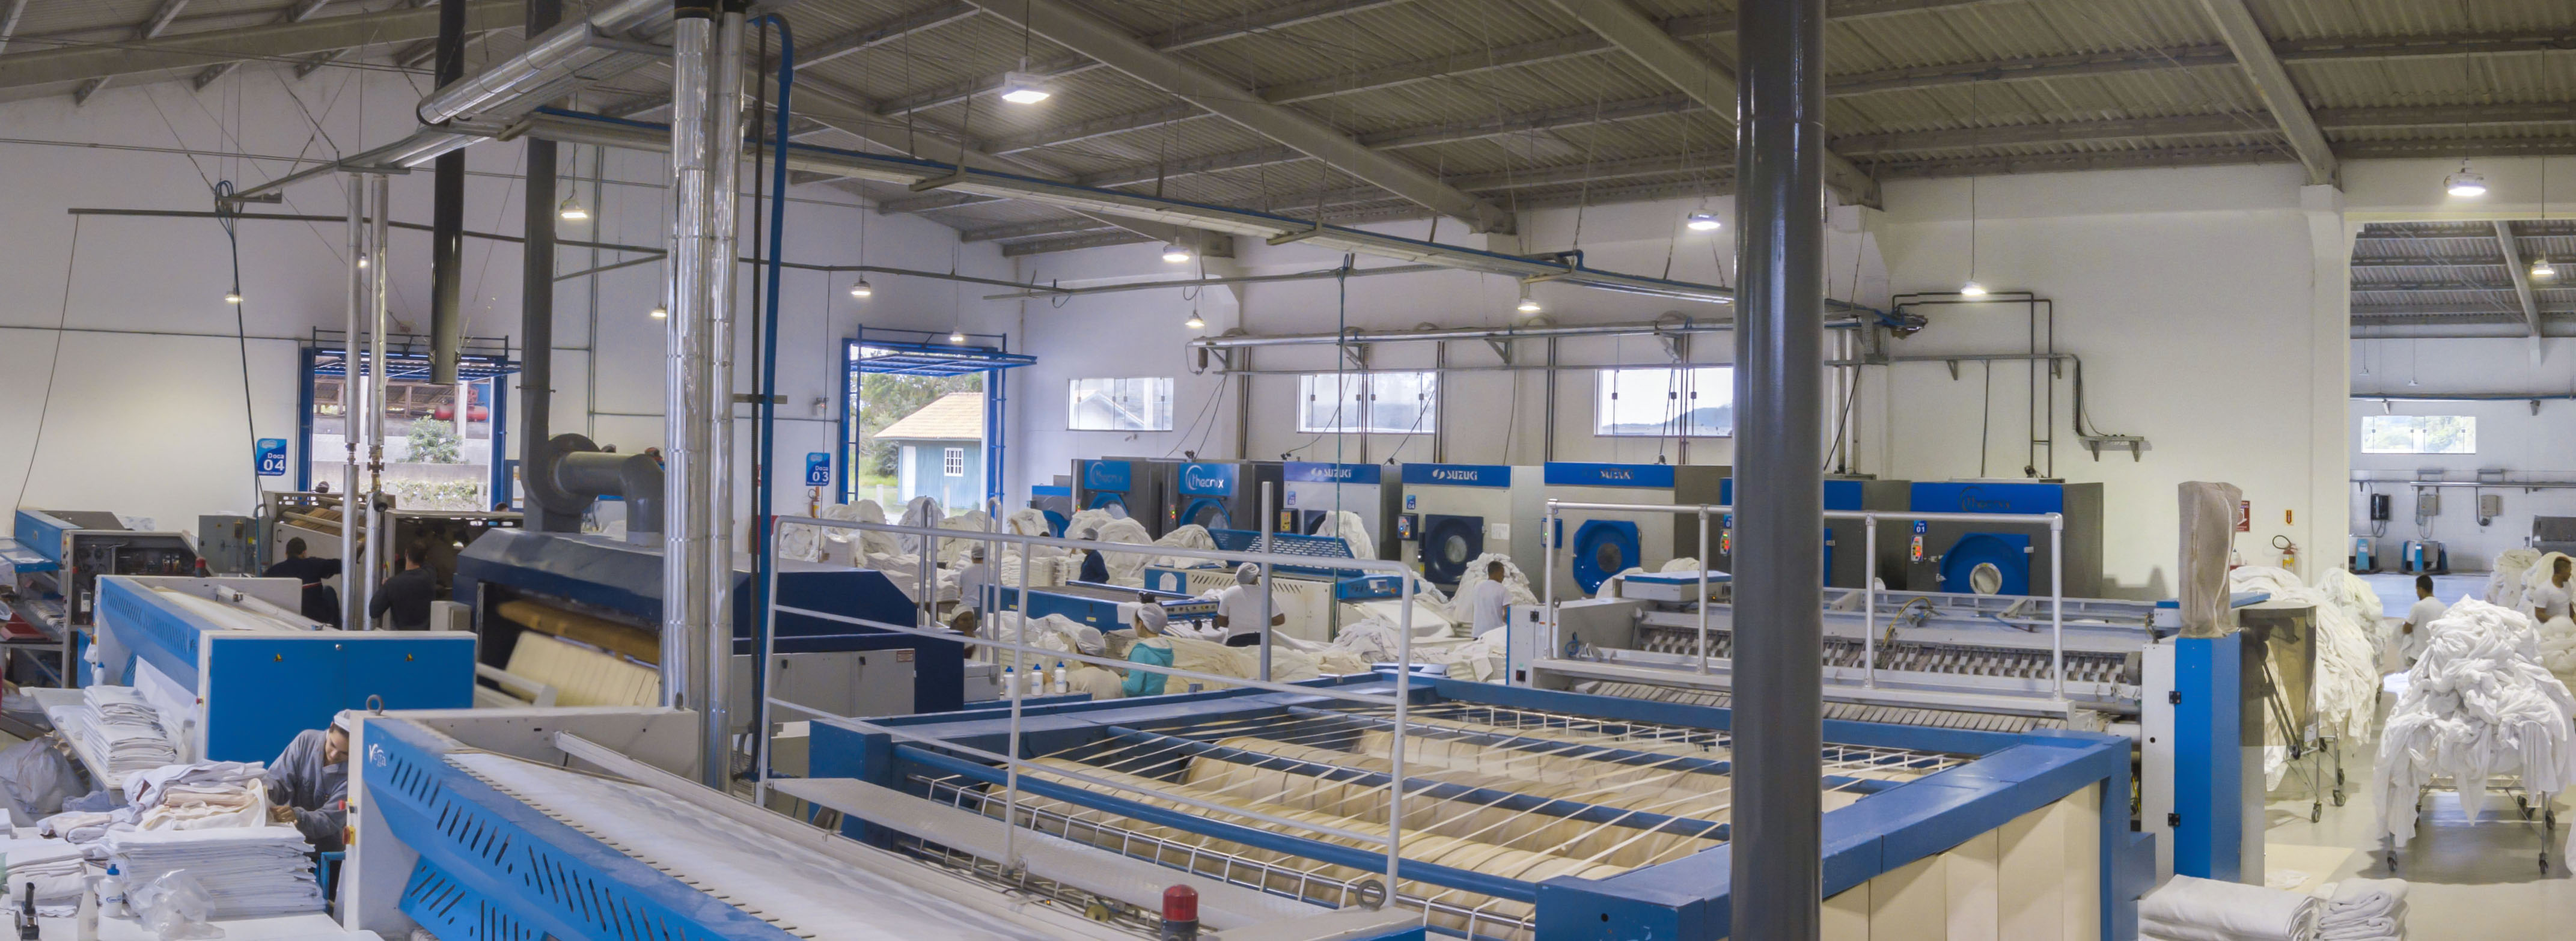
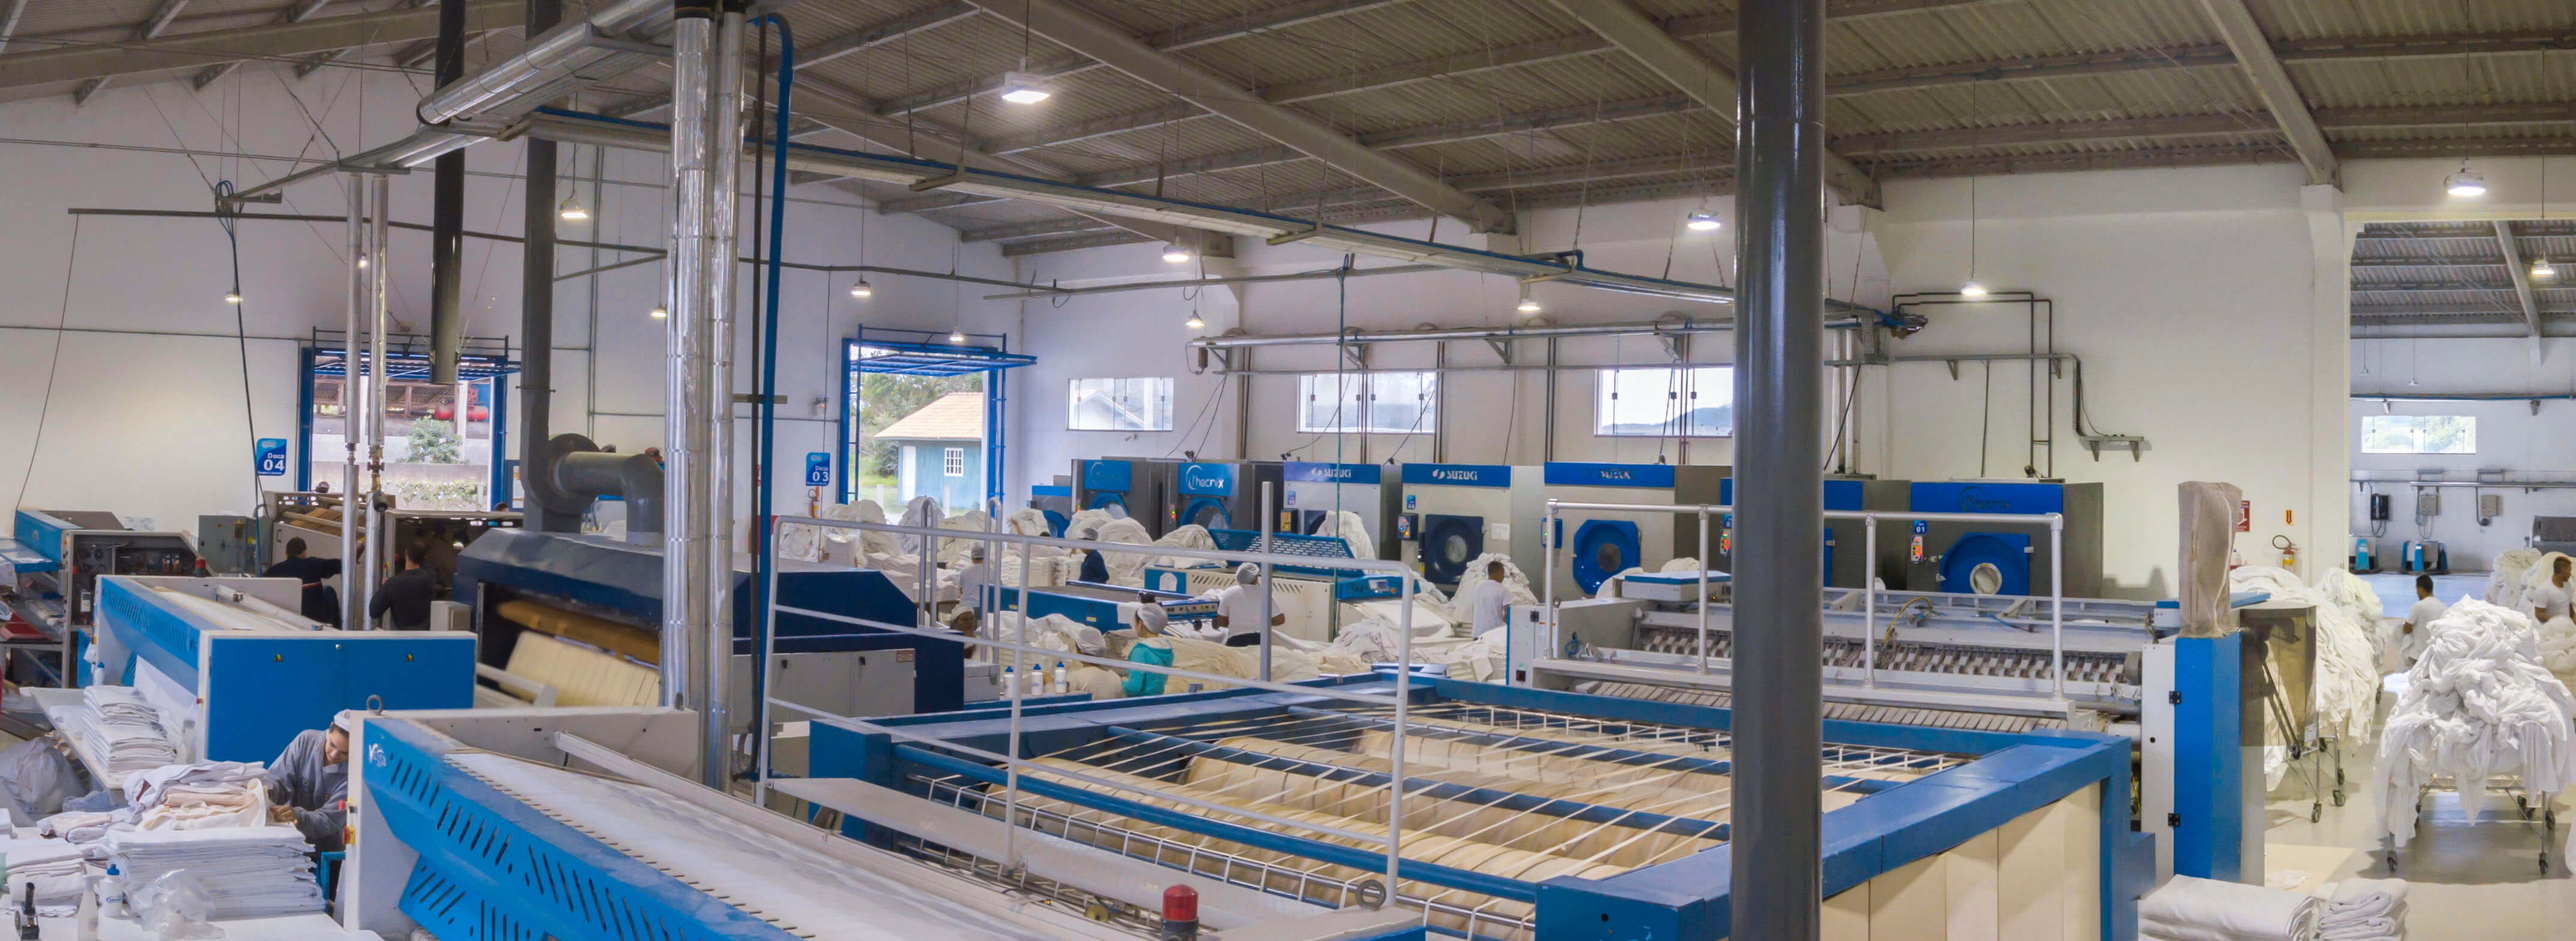
tinified images

diff --git a/src/pages/work-with-us/WorkWithUsPage.js b/src/pages/work-with-us/WorkWithUsPage.js
@@ -1,10 +1,7 @@
 import './WorkWithUsPage.css';
 import React, { Component } from 'react';
-import HttpRequest from "../../services/HttpService";
 
 class WorkWithUsPage extends Component {
-
-    request = new HttpRequest();
 
     constructor() {
         super();
@@ -15,9 +12,7 @@ class WorkWithUsPage extends Component {
 
     }
 
-
     render() {
-
         return (
             <section id="companySection">
                 <div id="companyCover">
@@ -48,6 +43,8 @@ class WorkWithUsPage extends Component {
                                             <div className="col-md-8">
                                                 <input name="nome" type="text" className="form-control" placeholder="Nome Completo" />
                                             </div>
+                                            <div className="visible-sm visible-xs clearfix" />
+                                            <hr className="visible-sm visible-xs" />
                                             <div className="col-md-4">
                                                 <input name="email" type="email" className="form-control" placeholder="E-mail" />
                                             </div>
@@ -61,6 +58,8 @@ class WorkWithUsPage extends Component {
                                             <div className="col-md-6">
                                                 <input name="cidade" type="cidade" className="form-control" placeholder="Cidade" />
                                             </div>
+                                            <div className="visible-sm visible-xs clearfix" />
+                                            <hr className="visible-sm visible-xs" />
                                             <div className="col-md-6">
                                                 <input name="telefone" type="phone" className="form-control" placeholder="Telefone" />
                                             </div>
@@ -69,9 +68,13 @@ class WorkWithUsPage extends Component {
                                             <div className="col-md-4">
                                                 <input name="nascimento" type="date" className="form-control" placeholder="Data de Nascimento"/>
                                             </div>
+                                            <div className="visible-sm visible-xs clearfix" />
+                                            <hr className="visible-sm visible-xs" />
                                             <div className="col-md-4">
                                                 <input name="horario" type="text" className="form-control" placeholder="Disponibilidade de horário"/>
                                             </div>
+                                            <div className="visible-sm visible-xs clearfix" />
+                                            <hr className="visible-sm visible-xs" />
                                             <div className="col-md-4">
                                                 <input name="vaga" type="text" className="form-control" placeholder="Vaga pretendida"/>
                                             </div>

diff --git a/src/services/HttpService.js b/src/services/HttpService.js
@@ -2,20 +2,20 @@ import superagent from 'superagent';
 
 class HttpRequest {
 
-  get(url) {
-    return superagent
-    .get(url)
-    .withCredentials()
-    .set('Accept', 'application/json');
-  }
+    static get(url) {
+        return superagent
+            .get(url)
+            .withCredentials()
+            .set('Accept', 'application/json');
+    }
 
-  post(url, payload) {
-    return superagent
-    .post(url)
-    .send(payload)
-    .withCredentials()
-    .set('Accept', 'application/json');
-  }
+    static post(url, payload) {
+        return superagent
+            .post(url)
+            .send(payload)
+            .withCredentials()
+            .set('Accept', 'application/json');
+    }
 
 }
 

diff --git a/src/pages/blog-single/BlogSinglePage.js b/src/pages/blog-single/BlogSinglePage.js
@@ -8,15 +8,13 @@ import "react-image-gallery/styles/css/image-gallery.css";
 
 class BlogSinglePage extends Component {
 
-    request = new HttpRequest();
-
     constructor(props) {
         super(props);
         this.state = { isLoading: true };
     }
 
     componentWillMount() {
-        this.request.get(AppConstants.ENDPOINT_BLOG_SINGLE + this.props.match.params.id).then( (res) => {
+        HttpRequest.get(AppConstants.ENDPOINT_BLOG_SINGLE + this.props.match.params.id).then( (res) => {
             this.setState({ isLoading: false, content: JSON.parse(res['text']) });
         });
     }

diff --git a/src/pages/home/HomePage.js b/src/pages/home/HomePage.js
@@ -13,7 +13,6 @@ import BlogComponent from "../../components/blog/BlogComponent";
 
 class HomePage extends Component {
 
-    request = new HttpRequest();
     scroller = new Scroller();
 
     constructor() {
@@ -22,7 +21,7 @@ class HomePage extends Component {
     }
 
     componentWillMount() {
-        this.request.get(AppConstants.ENDPOINT_HOME).then( (res) => {
+        HttpRequest.get(AppConstants.ENDPOINT_HOME).then( (res) => {
             this.setState({ isLoading: false, content: JSON.parse(res['text']) });
         });
     }

diff --git a/src/pages/partners/PartnersPage.js b/src/pages/partners/PartnersPage.js
@@ -7,15 +7,13 @@ import PartnerComponent from "../../components/partner/PartnerComponent";
 
 class CompanyPage extends Component {
 
-    request = new HttpRequest();
-
     constructor() {
         super();
         this.state = { isLoading: true };
     }
 
     componentWillMount() {
-        this.request.get(AppConstants.ENDPOINT_PARTNER).then( (res) => {
+        HttpRequest.get(AppConstants.ENDPOINT_PARTNER).then( (res) => {
             this.setState({ isLoading: false, content: JSON.parse(res['text']) });
         });
     }

diff --git a/src/pages/company/CompanyPage.js b/src/pages/company/CompanyPage.js
@@ -9,15 +9,13 @@ import MapComponent from "../../components/map/MapComponent";
 
 class CompanyPage extends Component {
 
-    request = new HttpRequest();
-
     constructor() {
         super();
         this.state = { isLoading: true };
     }
 
     componentWillMount() {
-        this.request.get(AppConstants.ENDPOINT_COMPANY).then( (res) => {
+        HttpRequest.get(AppConstants.ENDPOINT_COMPANY).then( (res) => {
             this.setState({ isLoading: false, content: JSON.parse(res['text']) });
         });
     }

diff --git a/src/pages/services/ServicesPage.js b/src/pages/services/ServicesPage.js
@@ -8,15 +8,13 @@ import "react-image-gallery/styles/css/image-gallery.css";
 
 class ServicesPage extends Component {
 
-    request = new HttpRequest();
-
     constructor() {
         super();
         this.state = { isLoading: true };
     }
 
     componentWillMount() {
-        this.request.get(AppConstants.ENDPOINT_SERVICE).then( (res) => {
+        HttpRequest.get(AppConstants.ENDPOINT_SERVICE).then( (res) => {
             this.setState({ isLoading: false, content: JSON.parse(res['text']) });
         });
     }

diff --git a/src/pages/blog/BlogPage.js b/src/pages/blog/BlogPage.js
@@ -8,15 +8,13 @@ import BlogComponent from "../../components/blog/BlogComponent";
 
 class CompanyPage extends Component {
 
-    request = new HttpRequest();
-
     constructor() {
         super();
         this.state = { isLoading: true };
     }
 
     componentWillMount() {
-        this.request.get(AppConstants.ENDPOINT_BLOG).then( (res) => {
+        HttpRequest.get(AppConstants.ENDPOINT_BLOG).then( (res) => {
             this.setState({ isLoading: false, content: JSON.parse(res['text']) });
         });
     }

diff --git a/src/components/service-block/ServiceBlockComponent.js b/src/components/service-block/ServiceBlockComponent.js
@@ -26,7 +26,6 @@ class ServiceBlockComponent extends Component {
             </section>
         );
     }
-
 }
 
 export default ServiceBlockComponent;
